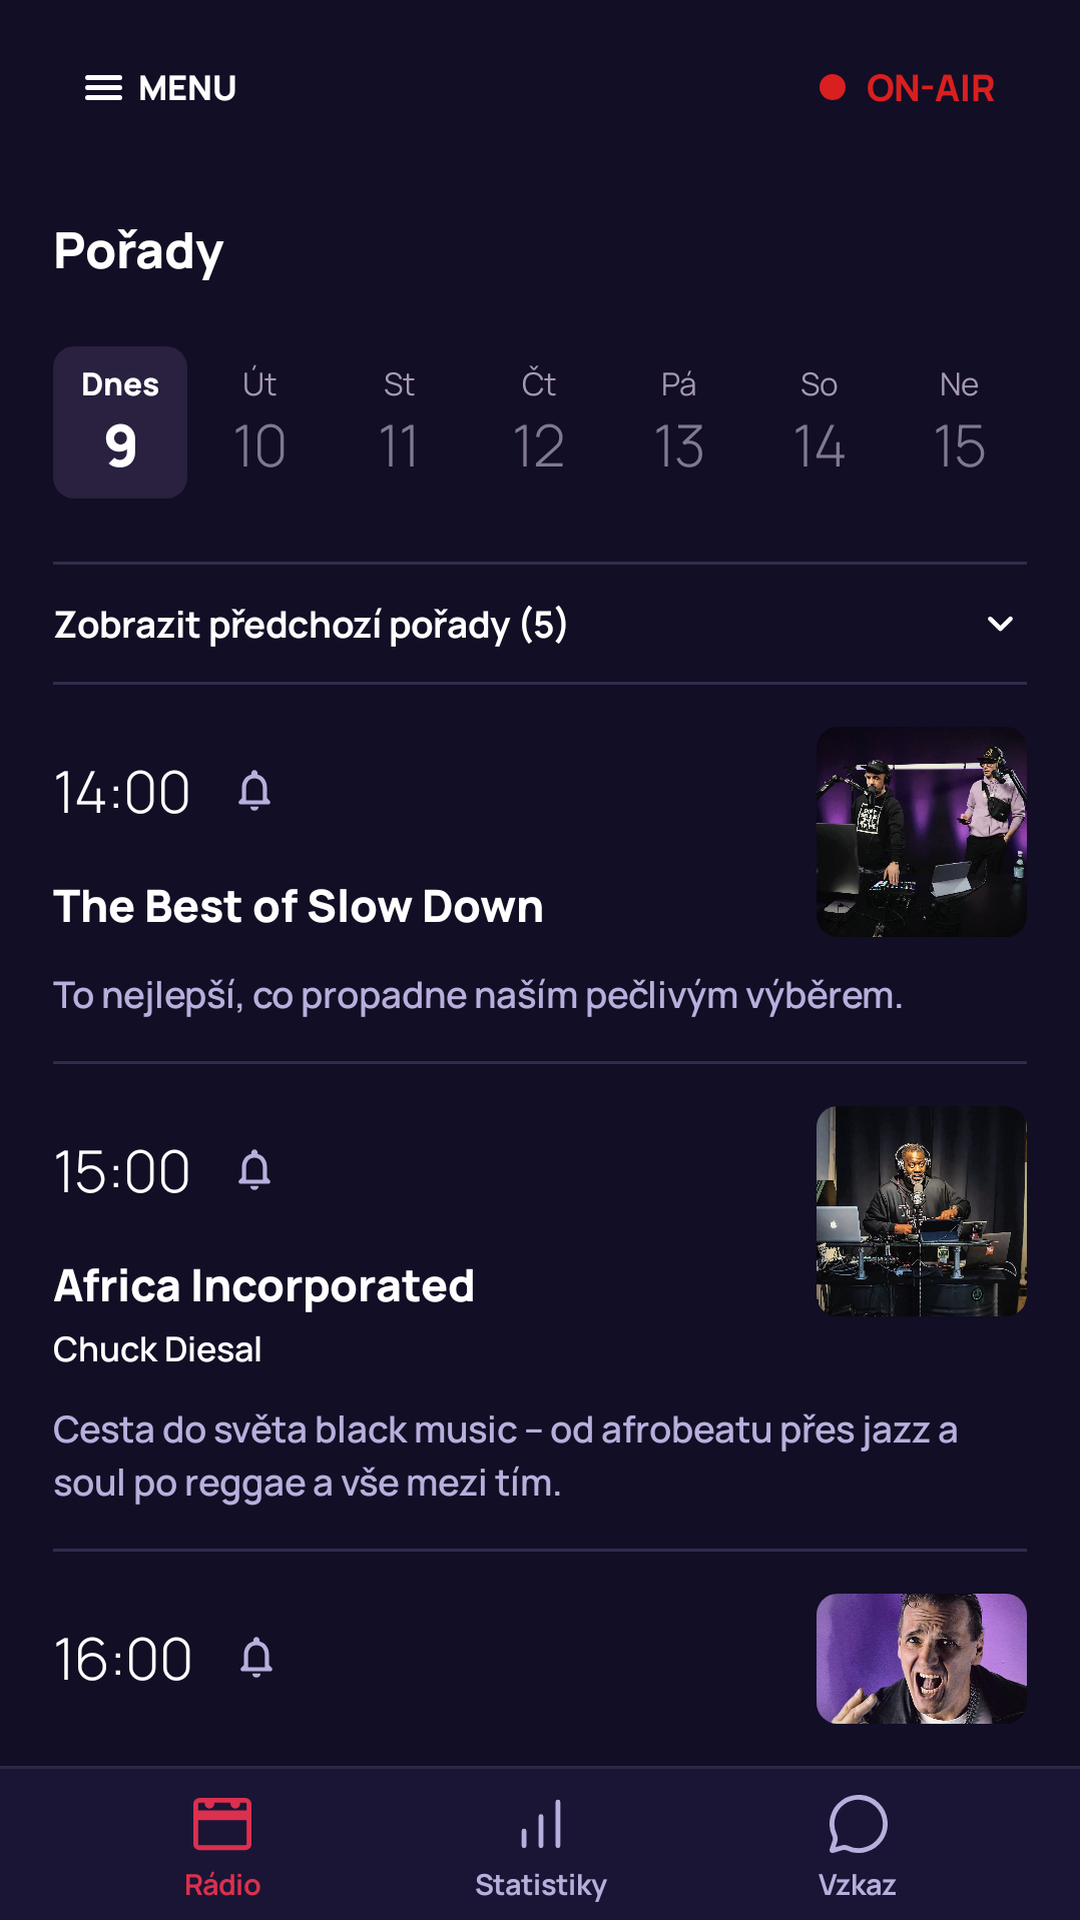
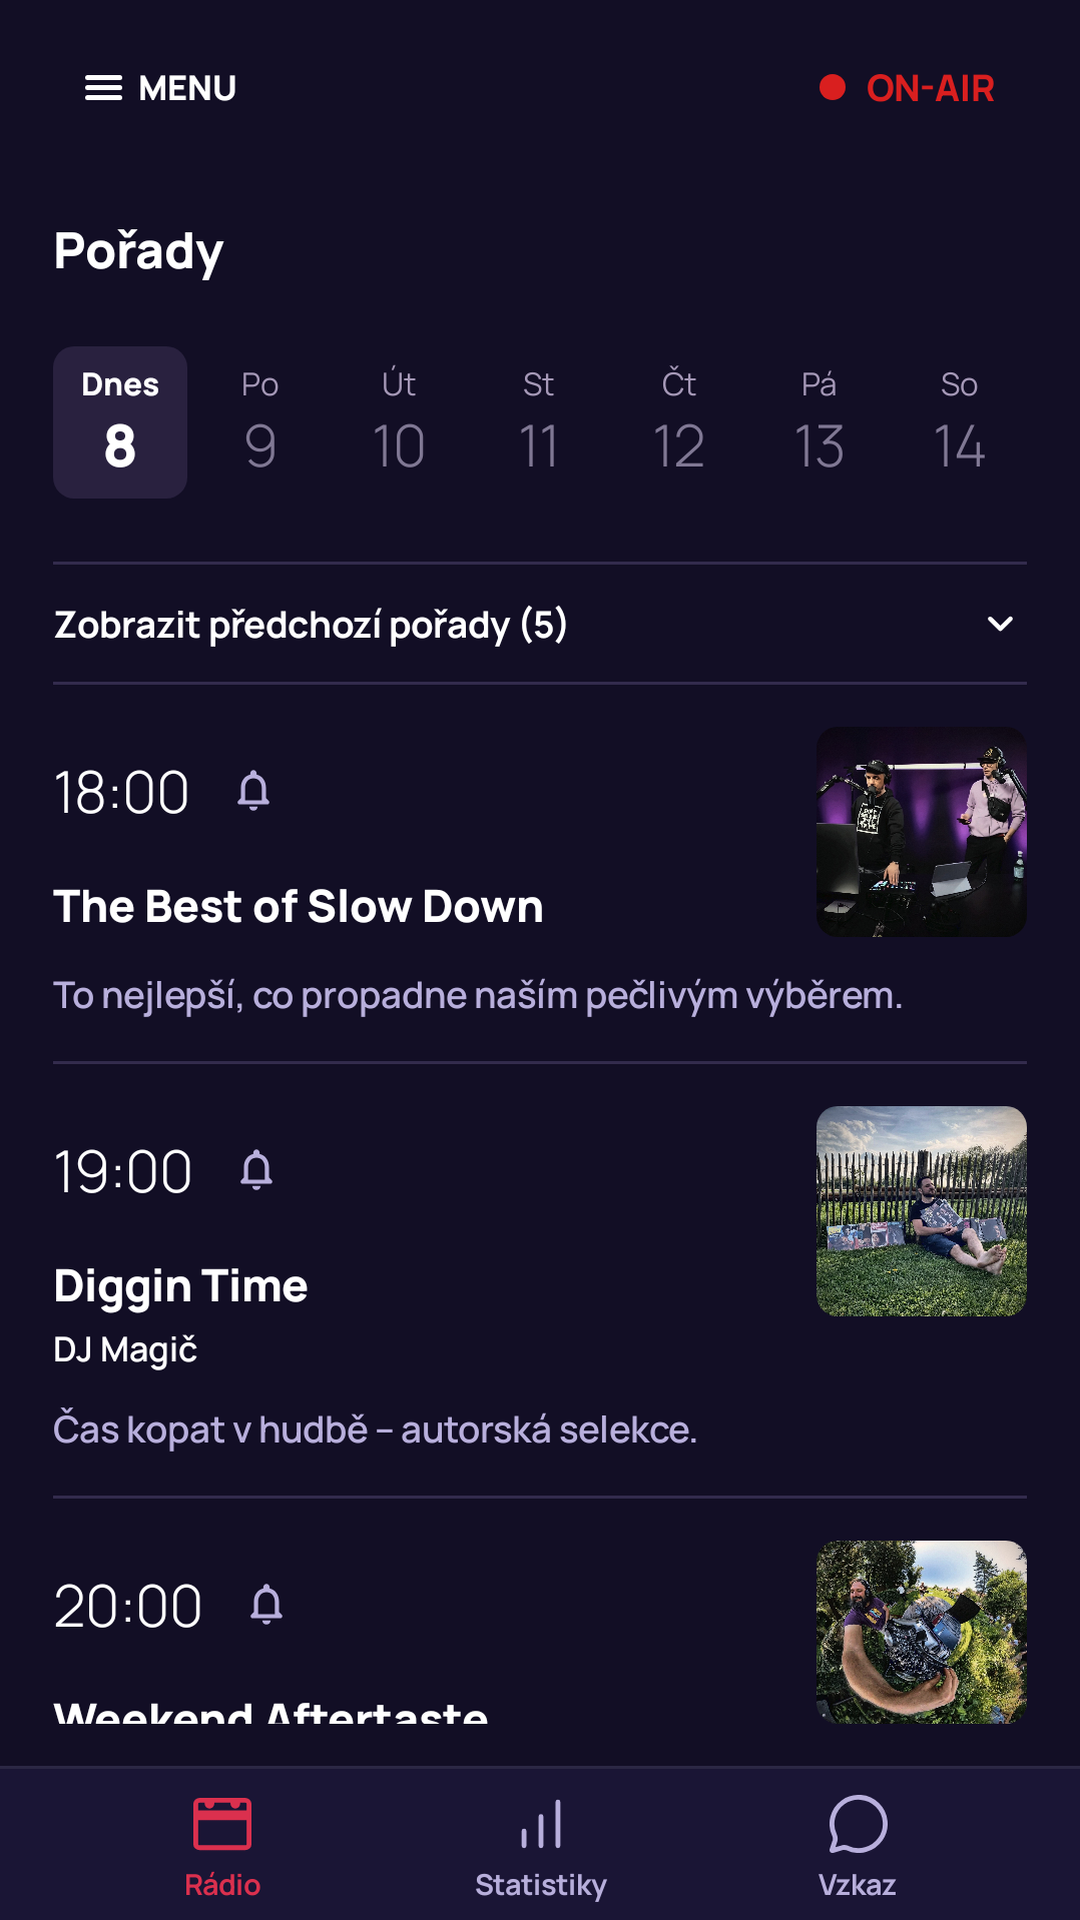
Google Play screenshots without Show podle Majkla, as on iOS
Taken on Sunday 17:30 (Kurátorská selekce), the one day without the show,
with only shows with bundled photos after it; the test fails if Majkl is
on screen, like excludedShows in AppStoreScreenshotTests.swift.

Claude-Session: https://claude.ai/code/session_01QVesfCvWCUEYGTZykSWJrJ

diff --git a/android/app/src/test/kotlin/cz/slowdownradijo/app/ui/StoreScreenshotTest.kt b/android/app/src/test/kotlin/cz/slowdownradijo/app/ui/StoreScreenshotTest.kt
@@ -9,6 +9,7 @@ import androidx.compose.runtime.Composable
 import androidx.compose.runtime.CompositionLocalProvider
 import androidx.compose.ui.Modifier
 import androidx.compose.ui.test.junit4.createComposeRule
+import androidx.compose.ui.test.hasText
 import androidx.compose.ui.test.onRoot
 import androidx.compose.ui.unit.dp
 import androidx.test.ext.junit.runners.AndroidJUnit4
@@ -62,8 +63,13 @@ class StoreScreenshotTest {
     @get:Rule val compose = createComposeRule()
 
     private val store = ScheduleStore(ScheduleStore.parse(File("../../SlowDownRadijo/Resources/schedule.json").readText()))
-    /** Monday 9 Nov 2026, 13:30 in Prague: Show podle Majkla, hosted. */
-    private val now = Instant.parse("2026-11-09T12:30:00Z")
+    /**
+     * Sunday 8 Nov 2026, 17:30 in Prague: Kurátorská selekce, hosted, with only
+     * shows with bundled photos after it. Sunday is the one day without Show
+     * podle Majkla, which must not appear in the store's screenshots (the
+     * station's call, as `excludedShows` in `AppStoreScreenshotTests.swift`).
+     */
+    private val now = Instant.parse("2026-11-08T16:30:00Z")
     private val show = store.currentShow(now)!!
     private val onAir = OnAir(
         show = show,
@@ -79,8 +85,14 @@ class StoreScreenshotTest {
                 ProvideAppLanguage(language) { SlowDownTheme { content() } }
             }
         }
+        for (show in excludedShows) {
+            check(compose.onAllNodes(hasText(show, substring = true)).fetchSemanticsNodes().isEmpty()) { "$name: $show is on screen" }
+        }
         compose.onRoot().captureRoboImage("../store/screenshots/${language.code}/$name.png")
     }
+
+    /** Shows that must not appear in the store's screenshots (the station's call). */
+    private val excludedShows = listOf("Majkl")
 
     /** A tab's page as the app lays it out: the header, then the content. */
     @Composable
@@ -115,7 +127,7 @@ class StoreScreenshotTest {
         },
         weekSeconds = 27_120, weekStart = LocalDate.parse("2026-11-03"), weekEnd = LocalDate.parse("2026-11-09"),
         shows = listOf(
-            StatsSummary.ShowShare("show-podle-majkla", "Show podle Majkla", "Vrtulník Michael V.", null, null, 40_000, 0.42),
+            StatsSummary.ShowShare("africa-incorporated-s-chuck-diesal", "Africa Incorporated", "Chuck Diesal", null, null, 40_000, 0.42),
             StatsSummary.ShowShare("beat-brunch-s-jaro-cossiga", "Beat Brunch", "Jaro Cossiga", null, null, 30_000, 0.31),
             StatsSummary.ShowShare("morning-coffee-s-dj-pufaz", "Morning Coffee", "DJ Pufaz", null, null, 25_000, 0.27),
         ),
